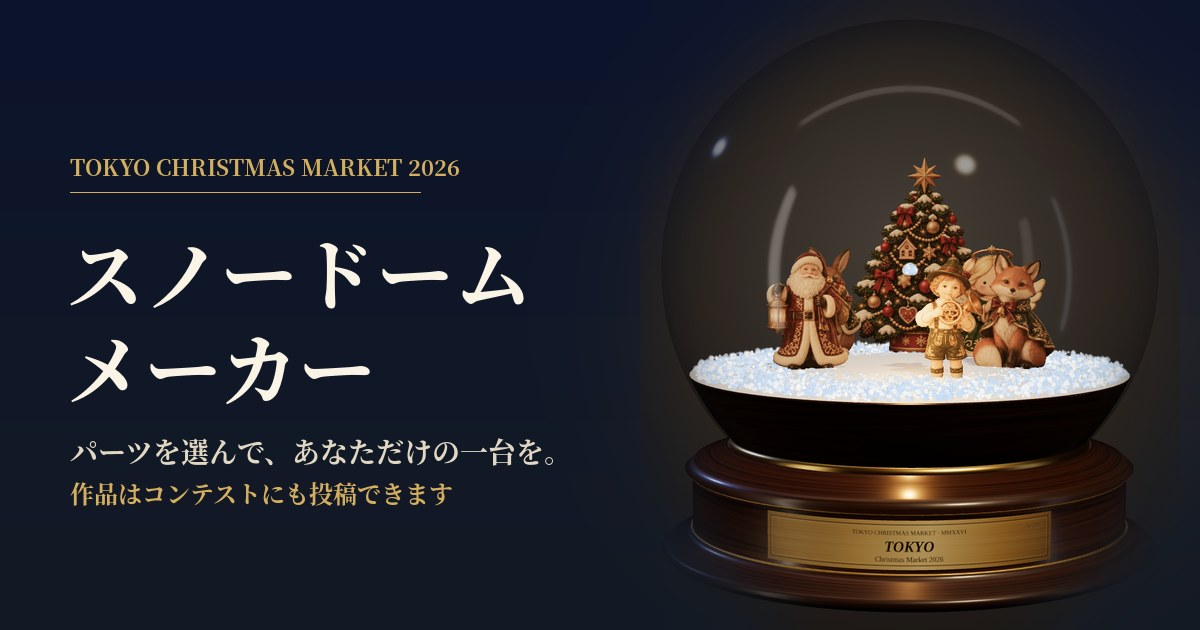
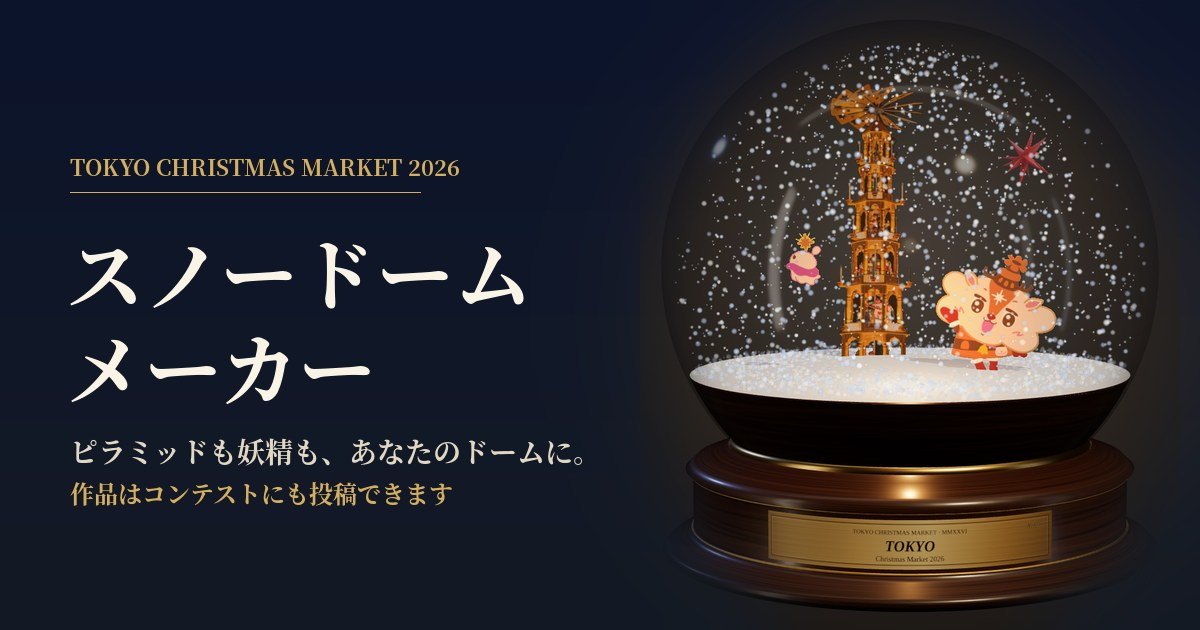
Add TCM pyramid, market parts and original characters
- New part categories: TCM characters (pyramid fairy poses + companion fairy) and TCM market (pyramid, Herrnhut star, nativity, hut, mug, tree)
- Official art and venue photos keep their true colors (no porcelain tint)
- Default scene places the TCM pyramid and the fairy; floor starts with a settled snow layer
- Refresh OGP image; fix invisible gallery link button

Claude-Session: https://claude.ai/code/session_01ENgUrR5vF6T7skktdqBzYG

diff --git a/js/globe3d.js b/js/globe3d.js
@@ -949,11 +949,18 @@ export class Globe {
     const geo = new THREE.PlaneGeometry(1, 1);
     geo.translate(0, 0.5, 0);
     const st = PART_STYLES[this.styleKey || 'painted'];
+    // 公式キャラ・会場写真は色を変えない（磁器風の色調補正をかけず、トーンマップも外して本来の色で）
+    const trueColor = !!cat.trueColor;
     const mat = new THREE.MeshStandardMaterial({
-      map: tex, alphaTest: 0.45, side: THREE.DoubleSide, roughness: st.roughness, metalness: st.metalness,
-      normalMap: normalMapFrom(source, cat.img || null), normalScale: new THREE.Vector2(st.normal, st.normal),
+      map: tex, alphaTest: 0.45, side: THREE.DoubleSide, roughness: trueColor ? 0.75 : st.roughness, metalness: trueColor ? 0 : st.metalness,
+      normalMap: normalMapFrom(source, cat.img || null), normalScale: new THREE.Vector2(trueColor ? 0.25 : st.normal, trueColor ? 0.25 : st.normal),
     });
-    applyStyleShader(mat);
+    if (trueColor) {
+      // 照明の当たり方は残しつつ、白飛び・色あせしないように
+      mat.toneMapped = false;
+      mat.color.setScalar(0.78);
+      mat.emissiveMap = tex; mat.emissive.setScalar(0.22);
+    } else applyStyleShader(mat);
     const mesh = new THREE.Mesh(geo, mat);
     mesh.castShadow = true;
     mesh.customDepthMaterial = new THREE.MeshDepthMaterial({ depthPacking: THREE.RGBADepthPacking, map: tex, alphaTest: 0.45 });
@@ -976,6 +983,7 @@ export class Globe {
     this.styleKey = key;
     styleUniform.value = st.id;
     this.parts.forEach((p) => {
+      if (p.cat.trueColor) return;
       Object.assign(p.mesh.material, { roughness: st.roughness, metalness: st.metalness });
       p.mesh.material.normalScale.set(st.normal, st.normal);
     });
@@ -1318,20 +1326,24 @@ export class Globe {
     return [0, s.groundY + 0.3, 0];
   }
 
-  // 粒をドーム全体にふんわり浮かべた状態にする（固まって積もった状態からは始めない）
-  _resetParticles() {
+  // 始まりの状態：大半は床に薄く積もった雪（積雪の層として見せる）、残りがふんわり舞っている
+  _resetParticles(floating = 0.28) {
     if (!this.points || !this.spec) return;
     const pos = this.points.geometry.attributes.position;
     const s = this.spec, gy = s.groundY;
+    let settled = 0;
     for (let i = 0; i < PARTICLE_MAX; i++) {
-      const [x, y, z] = this._randomInSlice(gy + 0.05, s.topY - 0.04);
-      pos.setXYZ(i, x, y, z);
       this.pRest[i] = gy + 0.012 + Math.random() * 0.02;
-      this.pSettled[i] = 0; this.pSpread[i] = 0;
+      this.pSpread[i] = 0;
       this.pv[i * 3] = this.pv[i * 3 + 2] = 0; this.pv[i * 3 + 1] = -0.02;
+      const [x, y, z] = this._randomInSlice(gy + 0.05, s.topY - 0.04);
+      if (Math.random() > floating && s.inside(x, gy + 0.06, z)) {
+        pos.setXYZ(i, x, this.pRest[i], z); this.pSettled[i] = 1; if (i < this.pCount) settled++;
+      } else { pos.setXYZ(i, x, y, z); this.pSettled[i] = 0; }
     }
     pos.needsUpdate = true;
-    this.layerOpacity = 0;
+    const P = this.preset || {};
+    this.layerOpacity = P.fall < 0 ? 0 : Math.min(1, settled / (this.pCount * 0.45)) * (P.group === 'snow' || !P.group ? 0.95 : 0.5);
   }
 
   _gravityLocal() {
@@ -1446,7 +1458,7 @@ export class Globe {
           x = rx; z = rz; y = s.groundY + 0.05;
         }
       }
-      if (this.pSettled[i]) { a *= 0.85; if (this.pSettled[i] === 1) onGround++; }
+      if (this.pSettled[i]) { a *= this.pSettled[i] === 1 ? 0.45 : 0.85; if (this.pSettled[i] === 1) onGround++; }
       pos.array[o] = x; pos.array[o + 1] = y; pos.array[o + 2] = z;
       alpha.array[i] = a;
     }

diff --git a/js/parts-catalog.js b/js/parts-catalog.js
@@ -934,6 +934,26 @@ PARTS_CATALOG.porcelain = [
   }
 ];
 
+// ───────── 東京クリスマスマーケット オリジナル ─────────
+// キャラクター：クリスマスピラミッドの妖精（スタイルガイド 2026.10.13 より）
+PARTS_CATALOG.tcmChara = [
+  { id: 'tcm-chara-wave',  name: 'ピラミッドの妖精', trueColor: true, img: 'assets/tcm/chara_wave.webp',  w: 150, h: 149 },
+  { id: 'tcm-chara-front', name: '妖精（正面）',     trueColor: true, img: 'assets/tcm/chara_front.webp', w: 155, h: 152 },
+  { id: 'tcm-chara-fly',   name: '妖精（とぶ）',     trueColor: true, img: 'assets/tcm/chara_fly.webp',   w: 150, h: 140 },
+  { id: 'tcm-chara-side',  name: '妖精（よこ）',     trueColor: true, img: 'assets/tcm/chara_side.webp',  w: 100, h: 144 },
+  { id: 'tcm-fairy',       name: 'ふわふわ妖精',     trueColor: true, img: 'assets/tcm/fairy.webp',       w: 46,  h: 70 },
+];
+// 会場の名物（写真から切り抜き）＋マーケットらしいパーツ
+PARTS_CATALOG.tcm = [
+  { id: 'tcm-pyramid', name: 'TCMのピラミッド', trueColor: true, img: 'assets/tcm/pyramid.webp', w: 104, h: 306 },
+  { id: 'tcm-star',    name: 'ヘルンフートの星', trueColor: true, img: 'assets/tcm/star.webp',    w: 112, h: 110 },
+  { id: 'tcm-krippe',  name: 'クリッペ（降誕の飾り）', trueColor: true, img: 'assets/tcm/krippe.webp', w: 212, h: 160 },
+  PARTS_CATALOG.objects.find((p) => p.id === 'obj-pyramid'),
+  PARTS_CATALOG.objects.find((p) => p.id === 'obj-hutte'),
+  PARTS_CATALOG.decorations.find((p) => p.id === 'deco-mug'),
+  PARTS_CATALOG.objects.find((p) => p.id === 'obj-tree'),
+].filter(Boolean);
+
 // パーツSVGを色適用した状態で返す（画像パーツは <img>）
 function renderPartSvg(part, color) {
   if (part.img) return `<img src="${part.img}" alt="${part.name || ''}" draggable="false">`;

diff --git a/js/maker.js b/js/maker.js
@@ -16,7 +16,7 @@ const State = {
 
 // パーツのカテゴリ（画像が入っているものだけ表示）
 const PART_CATEGORIES = [
-  ['characters', 'キャラ'], ['porcelain', '磁器コレクション'], ['animals', 'どうぶつ'], ['people', 'ひと'], ['objects', 'オブジェ'],
+  ['tcmChara', '★TCMキャラ'], ['tcm', '★TCMマーケット'], ['characters', 'キャラ'], ['porcelain', '磁器コレクション'], ['animals', 'どうぶつ'], ['people', 'ひと'], ['objects', 'オブジェ'],
   ['buildings', '街と乗り物'], ['nature', '木と自然'], ['food', '食べもの'], ['toys', '雑貨・おもちゃ'], ['decorations', 'デコ'],
 ];
 
@@ -47,6 +47,24 @@ function init() {
   if (State.background === 'none') globe.setBackground({ none: true });
   else setBackground(PARTS_CATALOG.backgrounds.find((b) => b.id === State.background));
   document.body.classList.add('globe-ready');
+  placeDefaultScene();
+}
+
+// 最初に開いたときの中身：TCMのピラミッドと、ピラミッドの妖精
+async function placeDefaultScene() {
+  try {
+    const P = PARTS_CATALOG;
+    const put = async (cat, x, z, scale = 1) => {
+      if (!cat) return;
+      const id = await globe.addPart(cat);
+      const p = globe.parts.get(id);
+      p.x = x; p.z = z; p.scale = scale;
+      globe.updatePart(id, {});
+    };
+    await put(P.tcm.find((c) => c.id === 'tcm-pyramid'), -0.14, -0.3, 1.15);
+    await put(P.tcmChara.find((c) => c.id === 'tcm-chara-wave'), 0.34, 0.2, 0.95);
+    globe.select(null);
+  } catch (e) { console.warn(e); }
 }
 
 // ───────── 選択肢パネル ─────────
@@ -257,7 +275,7 @@ function initPartsPanel() {
     });
     wrap.appendChild(b);
   });
-  renderPartsGrid('characters');
+  renderPartsGrid('tcmChara');
 }
 
 function initStepTabs() {

diff --git a/css/maker.css b/css/maker.css
@@ -829,3 +829,7 @@ button.particle-card {
 .flip-hint.show { opacity: 1; }
 .flip-hint.done { opacity: 0 !important; }
 @keyframes fhSwipe { 0%, 100% { transform: translateX(-10px) rotate(-12deg); } 50% { transform: translateX(10px) rotate(12deg); } }
+
+/* パネル内のゴーストボタン（明るい背景で文字が消えないように） */
+.atelier-panel a.btn-ghost, .atelier-panel button.btn-ghost { color: var(--tcm-navy); border-color: var(--tcm-gold); background: transparent; }
+.atelier-panel a.btn-ghost:hover { background: rgba(201,166,107,0.12); }
